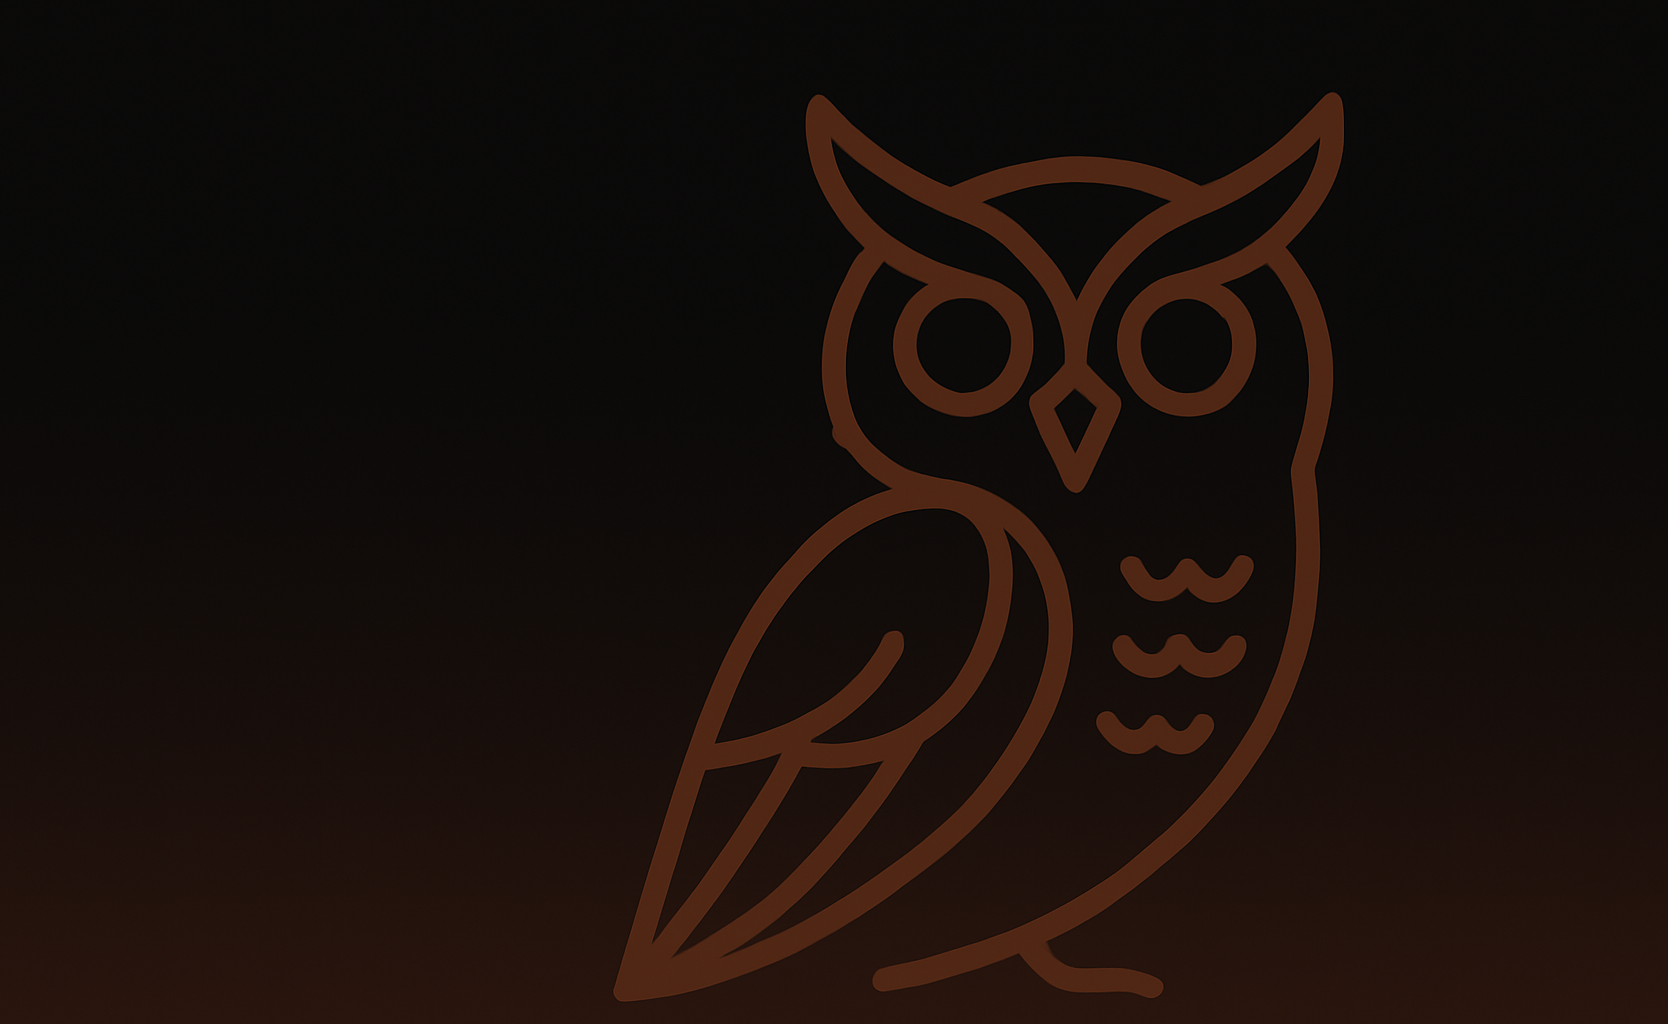
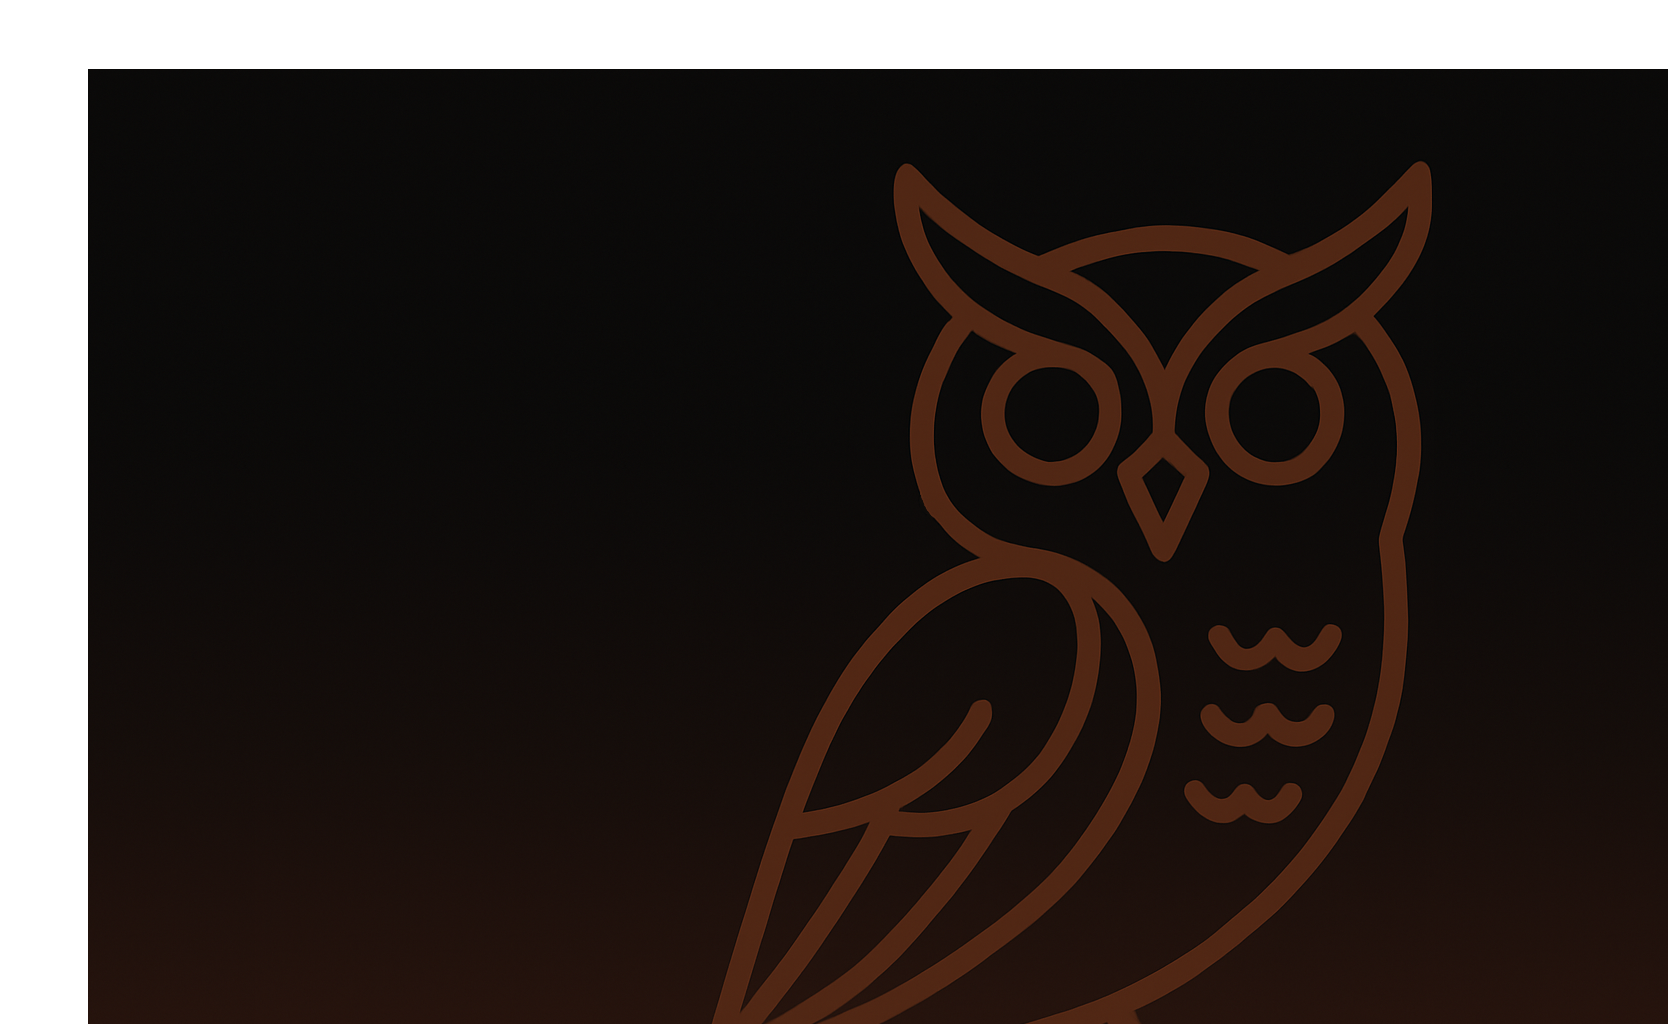
refine design

Changed region(s): [[0.0, 0.0, 1.0, 1.0]]

diff --git a/pages/404.tsx b/pages/404.tsx
@@ -1,3 +1,5 @@
+import Link from 'next/link';
+
 export default function Custom404() {
   return (
     <div className="flex flex-col items-center justify-center min-h-screen p-8">
@@ -5,12 +7,12 @@ export default function Custom404() {
       <p className="text-lg text-gray-600 dark:text-gray-300 mb-8">
         お探しのページは存在しないか、移動された可能性があります。
       </p>
-      <a
+      <Link
         href="/"
         className="px-6 py-3 bg-blue-500 text-white rounded-lg hover:bg-blue-600 transition-colors"
       >
         ホームに戻る
-      </a>
+      </Link>
     </div>
   );
 } 

diff --git a/pages/_app.tsx b/pages/_app.tsx
@@ -1,8 +1,18 @@
 import "@/styles/globals.css";
 import type { AppProps } from "next/app";
 import Head from "next/head";
+import { useEffect } from "react";
 
 export default function App({ Component, pageProps }: AppProps) {
+  useEffect(() => {
+    // GitHub Pages用のベースパスを動的に設定
+    const basePath = process.env.NODE_ENV === 'production' ? '/hootalk' : '';
+    const bgImagePath = `${basePath}/bg.png`;
+    
+    // CSS変数を動的に設定
+    document.documentElement.style.setProperty('--bg-image', `url('${bgImagePath}')`);
+  }, []);
+
   return (
     <>
       <Head>

diff --git a/pages/_error.tsx b/pages/_error.tsx
@@ -1,4 +1,5 @@
 import { NextPageContext } from 'next';
+import Link from 'next/link';
 
 interface ErrorProps {
   statusCode?: number;
@@ -17,12 +18,12 @@ function Error({ statusCode }: ErrorProps) {
           ? `サーバー側でエラーが発生しました`
           : '予期しないエラーが発生しました'}
       </p>
-      <a
+      <Link
         href="/"
         className="mt-8 px-6 py-3 bg-blue-500 text-white rounded-lg hover:bg-blue-600 transition-colors"
       >
         ホームに戻る
-      </a>
+      </Link>
     </div>
   );
 }

diff --git a/styles/globals.css b/styles/globals.css
@@ -3,6 +3,7 @@
 :root {
   --background: #ffffff;
   --foreground: #171717;
+  --bg-image: url('/bg.png');
 }
 
 @theme inline {
@@ -35,7 +36,7 @@ body::before {
   left: 0;
   width: 100%;
   height: 100%;
-  background-image: url('/bg.png');
+  background-image: var(--bg-image);
   background-size: cover;
   background-position: center;
   background-repeat: no-repeat;
